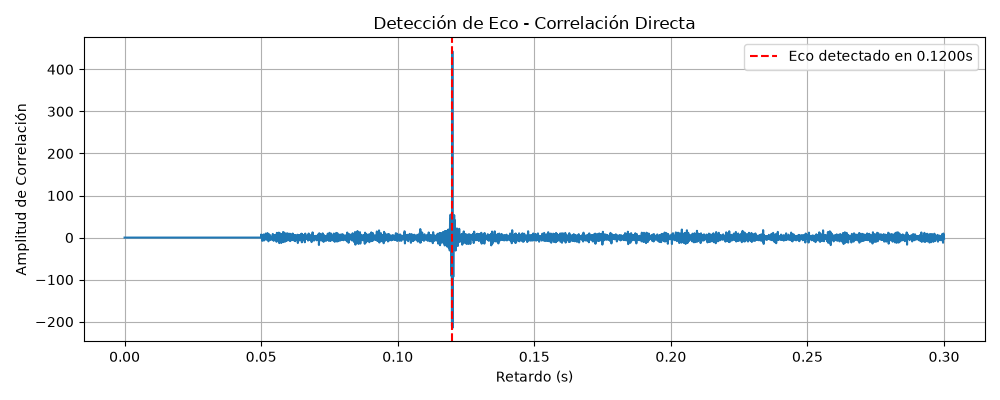
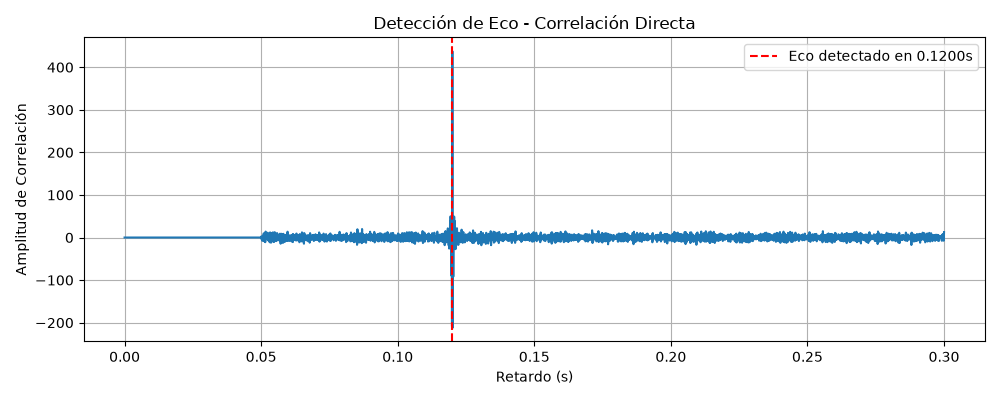
Fix: Agregar correlacion directa

diff --git a/proyecto_1/deteccion_ecos/src/correlacion_directa.py b/proyecto_1/deteccion_ecos/src/correlacion_directa.py
@@ -2,35 +2,39 @@ import numpy as np
 import matplotlib.pyplot as plt
 import time
 
-# Cargar señales
-datos = np.load("proyecto_1/deteccion_ecos/src/datos_ecos.npz")
-tx, rx, fs = datos["tx"], datos["rx"], datos["fs"]
 
-# Implementación de correlación directa
-inicio = time.time()
-# Se usa mode="valid" para desplazar tx sobre toda la longitud de rx
+datos = np.load("proyecto_1/deteccion_ecos/src/datos_ecos.npz")  #Carga el archivo comprimido guardado .npz
+tx = datos["tx"]  #De los datos conseguimos el pulso
+rx = datos["rx"]  #De los datos conseguimos el ruido + eco
+fs = datos["fs"]  #De los datos conseguimos la frecuencuia de muestreo 44100 Hz
+
+inicio = time.time()  #Tomamos como referencia el inicio previo al calculo
+
+#Desliza el pulso "tx" a lo largo de "rx" en el dominio del tiempo para encontrar coincidencias.
+#mode="valid" se encarga que solo se calcule donde "tx" entra completamente dentro de "rx".
 corr = np.correlate(rx, tx, mode="valid")
-fin = time.time()
 
-tiempo_ejecucion = fin - inicio
-muestras_zona_muerta = len(tx) 
-corr[:muestras_zona_muerta] = 0
-muestras_retardo_estimado = np.argmax(corr)
-retardo_estimado = muestras_retardo_estimado / fs
+fin = time.time()  #Guarda la hora exacta al finalizar
+tiempo_ejecucion = fin - inicio  #Resta los tiempos para saber cuánto tardó en segundos
+
+muestras_zona_muerta = len(tx)  #Cantidad de muestras que dura el pulso inicial
+corr[:muestras_zona_muerta] = 0 #Borra la correlación inicial para no confundir la onda directa con un eco
+
+muestras_retardo_estimado = np.argmax(corr)  #Encuentra el índice donde la correlación dio el valor más alto
+retardo_estimado = muestras_retardo_estimado / fs  #Convierte el índice de muestra a segundos dividiendo por fs
 
 print("--- Correlación Directa ---")
-print(f"Retardo estimado: {retardo_estimado:.4f} s")
-print(f"Tiempo de ejecución: {tiempo_ejecucion:.6f} s")
+print(f"Retardo estimado: {retardo_estimado:.6f} s")  
+print(f"Tiempo de ejecución: {tiempo_ejecucion:.6f} s")  
 
-# Graficar
-t_corr = np.arange(len(corr)) / fs
-plt.figure(figsize=(10, 4))
-plt.plot(t_corr, corr)
-plt.axvline(x=retardo_estimado, color="r", linestyle="--", label=f"Eco detectado en {retardo_estimado:.4f}s")
-plt.xlabel("Retardo (s)")
-plt.ylabel("Amplitud de Correlación")
-plt.title("Detección de Eco - Correlación Directa")
-plt.legend()
-plt.grid(True)
-plt.tight_layout()
-plt.savefig("proyecto_1/deteccion_ecos/imagenes/correlacion_directa.png")
+t_corr = np.arange(len(corr)) / fs  #Arreglo de tiempo en segundos para el eje X
+plt.figure(figsize=(10, 4)) 
+plt.plot(t_corr, corr)  
+plt.axvline(x=retardo_estimado, color="r", linestyle="--", label=f"Eco detectado en {retardo_estimado:.4f}s")  
+plt.xlabel("Retardo (s)")  
+plt.ylabel("Amplitud de Correlación")  
+plt.title("Detección de Eco - Correlación Directa")  
+plt.legend()  
+plt.grid(True)  
+plt.tight_layout()  
+plt.savefig("proyecto_1/deteccion_ecos/imagenes/correlacion_directa.png")  
